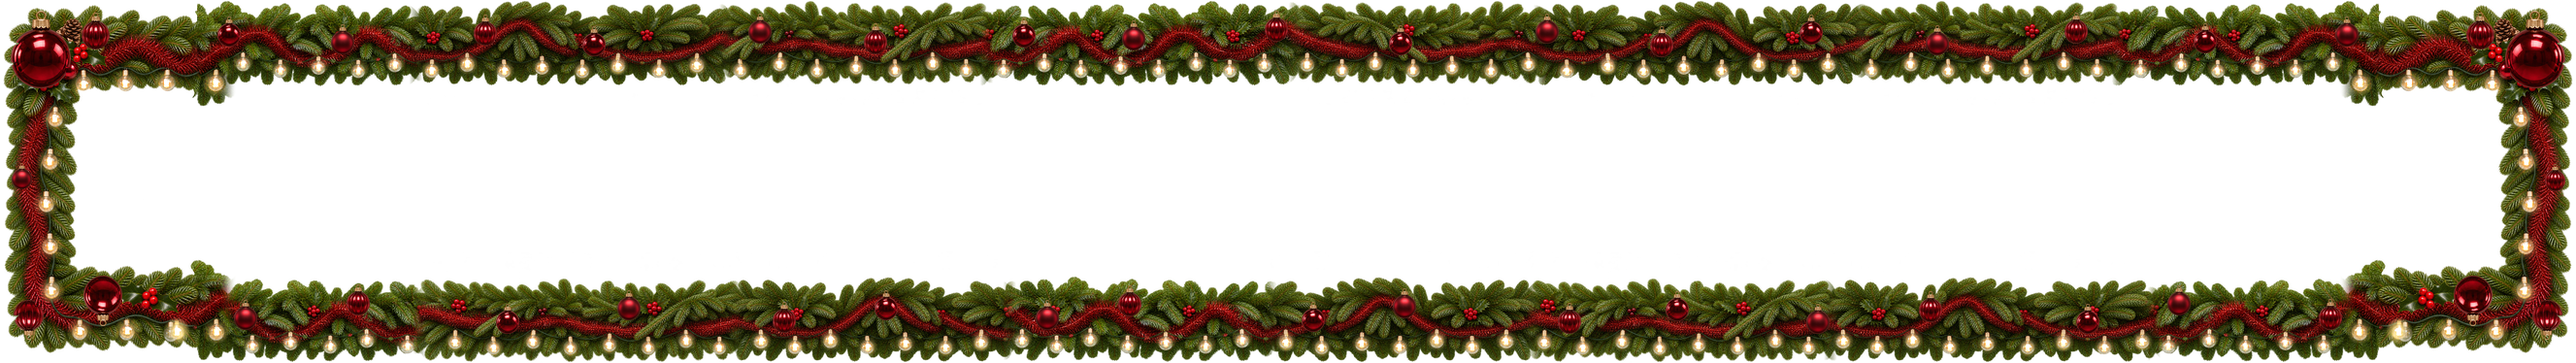
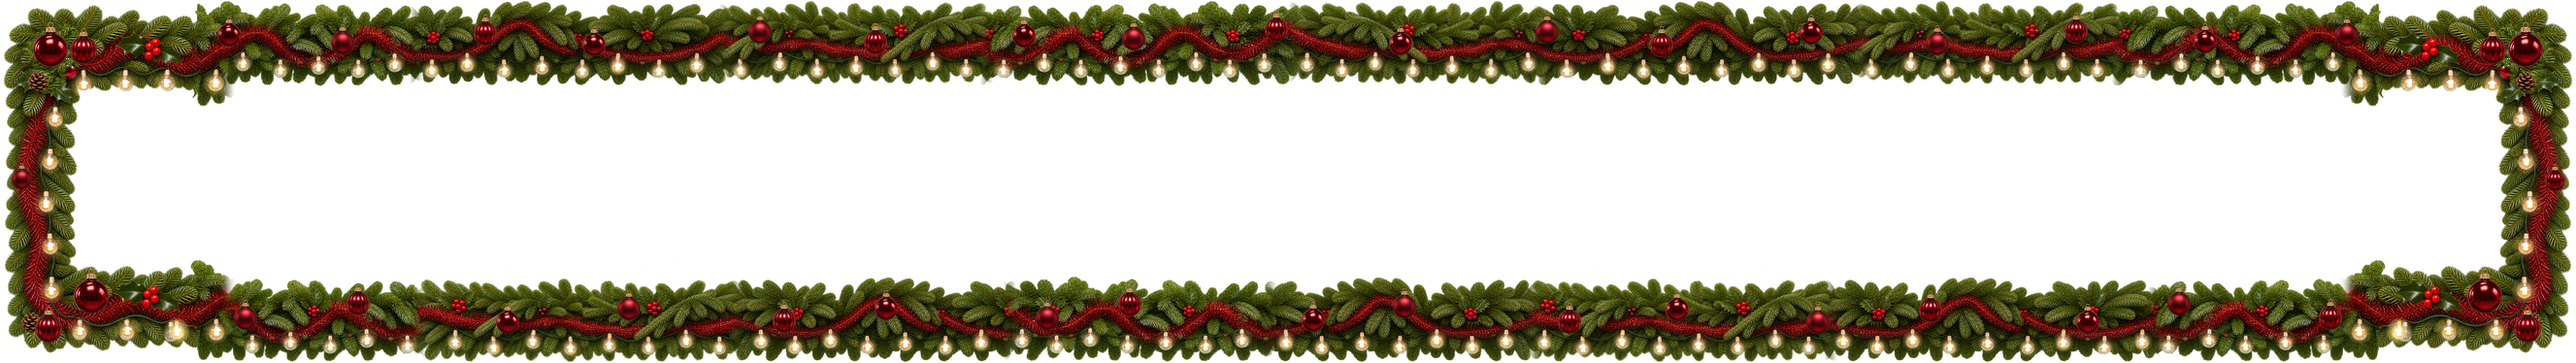
Richte die X-Mas-Eckmotive auf und übernehme den gemeinsamen Atlas [skip ci]

diff --git a/PROJEKT/docs/pruefung/PRUEFBERICHT.md b/PROJEKT/docs/pruefung/PRUEFBERICHT.md
@@ -1,6 +1,19 @@
 # MischWerk – Prüfbericht 0.1.463 / Build 463
 
-## Kugeln und Eckgruppen · lokale Vorschau auf Basis Build 463
+## Aufrechte Eckgruppen · Korrektur zu 2750699
+
+Alle vier Eckgruppen bestehen je Rahmenprofil aus denselben zwei Glaskugeln, Tannenzapfen und Ilex in gleicher Motivgröße. Alle Kappen und Ösen stehen oben. Beim Anordnen wurden die Positionen gespiegelt. Die Montage verwendete die orientierten Einzelmotive ohne Spiegelung. Im flachen Knuddels-Host 1645 × 176 px misst das Ilexmotiv je Ecke rund 27 CSS-Pixel.
+
+Die beiden Kompakt-PNGs stammen aus der führenden Web-/Android-Quelle und liegen in Knuddels bytegleich vor. Alpha, Pixel in den registrierten Lampenflächen, An-/Aus-Lichtsignal und beide Lampenkarten blieben unverändert.
+
+```text
+58b9e8e7a307f0f815f38032d085a18d838fdb946412446ff18ded8575646459  xmas-player-kompakt-aus.png
+a2ce4ea7ad93a6edaef15729b588500332647fd0be6cd7f2e3f400efac493b2c  xmas-player-kompakt-an.png
+```
+
+Fünf Chrome-Fälle bestanden, einschließlich der bestehenden K3- und STAPP-Fälle. An 13 gemessenen Hosts blieben Rahmenmaße und Lampenzahlen identisch. Alle vier Ecken wurden bei 1645 × 176 und 1645 × 220 px jeweils An und Aus aufgenommen. Web wurde bei 390 und 1440 px in beiden Lichtzuständen ebenso fotografiert. Die insgesamt 32 Eckdetails liegen im temporären Prüfverzeichnis. Die optische Abnahme der neuen Rahmen steht aus.
+
+## Kugeln und Eckgruppen · vorheriger Prüfkandidat 2750699
 
 Die gemeinsame Kugelvorlage liegt im Web-/Android-Repository unter `project/android-radio/project/docs/screenshots/xmas-kugeln-a-b-c.png` (Git-Stand `174cb58`). Die [Freisteller-Vorlage](https://github.com/PolaroidK/Windows-Web-App-MischWerk/blob/e4a66ab5cc8b6d187699ee36fbb2710494632017/project/android-radio/project/assets/backgrounds/xmas-kugeln-freisteller.png) ist als gemeinsame Arbeitsquelle abgelegt. Für den Knuddels-Prüfkandidaten sind glänzende, satinierte und gerippte Kugeln sowie die vier Eckgruppen in den vorhandenen breiten und kompakten An-/Aus-PNGs montiert. Die unteren Eckgruppen folgen der gespiegelten Platzierung. Ihre Kugeln sind wegen der vorhandenen Lampenflächen kleiner, und das Ilexmotiv gibt die Mindestgröße vor. Im Host 1645 × 176 misst die Girlande 1605 × 149,59 CSS-Pixel. Die große Kugel oben misst je 24,8 CSS-Pixel in der Breite, unten misst das Ilexmotiv je 26,8 CSS-Pixel.
 

diff --git a/AGENTS.md b/AGENTS.md
@@ -233,6 +233,7 @@ Bereits Anwesende beim Appstart nur flüchtig merken, weder öffentlich noch pri
 Für X-Mas gelten diese Gestaltungsausnahmen zur Oberfläche:
 
 - Radio verwendet die freigegebenen gemeinsamen Web- und Android-Grafiken bytegleich. Die geschlossene Girlande aus Nordmanntanne und rubinrotem Lametta bildet die sichtbare Außenkante. Die dunkle Werkhallenfläche endet verdeckt unter den Zweigen. Breiter Geraderahmen und Kompaktatlas verwenden proportional dargestellte Abschnitte. Für die rechte Seite die vorgesehenen Kompaktteile spiegeln. Dekoration vollständig sichtbar halten.
+- Jede Girlande zeigt vier gleich große Eckgruppen aus zwei roten Glaskugeln, Tannenzapfen und Ilex. Ausschließlich die Anordnung spiegeln. Jede Kugel behält Kappe und Öse oben, Zapfen und Ilex ihre natürliche Ausrichtung. Alle Motive bleiben innerhalb der Dekorationsfläche und außerhalb der registrierten Lampenflächen. Den in Web/Android gepflegten Kompaktatlas bytegleich übernehmen.
 - Der mittige Spielkranz trägt keine Birnen. Für Play, Pause und die übrigen Steuerelemente die freigegebenen X-Mas-Symbole und die zugehörigen Originalgrafiken verwenden.
 - Der Lichterumlauf nutzt registrierte An-Pixel über dem deckungsgleichen Aus-Zustand. Die drei versetzten CSS-Gruppen folgen dem 3,8-Sekunden-Zyklus. Die minimale Deckkraft bei bestätigter Wiedergabe beträgt 13 %, bei reduzierter Bewegung bleibt sie gleichmäßig bei 95 %. Startversuch, Nachladen, Fehler und Stopp zeigen ausschließlich die Aus-Ebene.
 - Sendeplan und Wunschbox verwenden neutral schwarzes Metall, einen ruhigen Goldrahmen sowie Schnee und Tannenschmuck im Kopf. Motive proportional einsetzen und Titel sowie Schließen freihalten.
